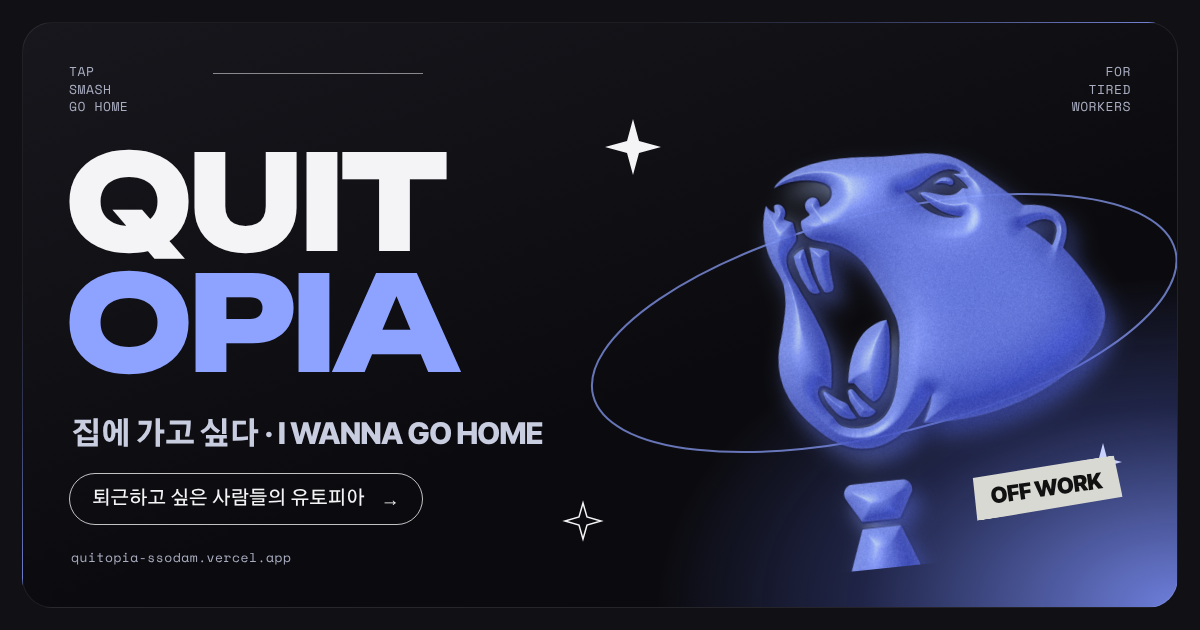
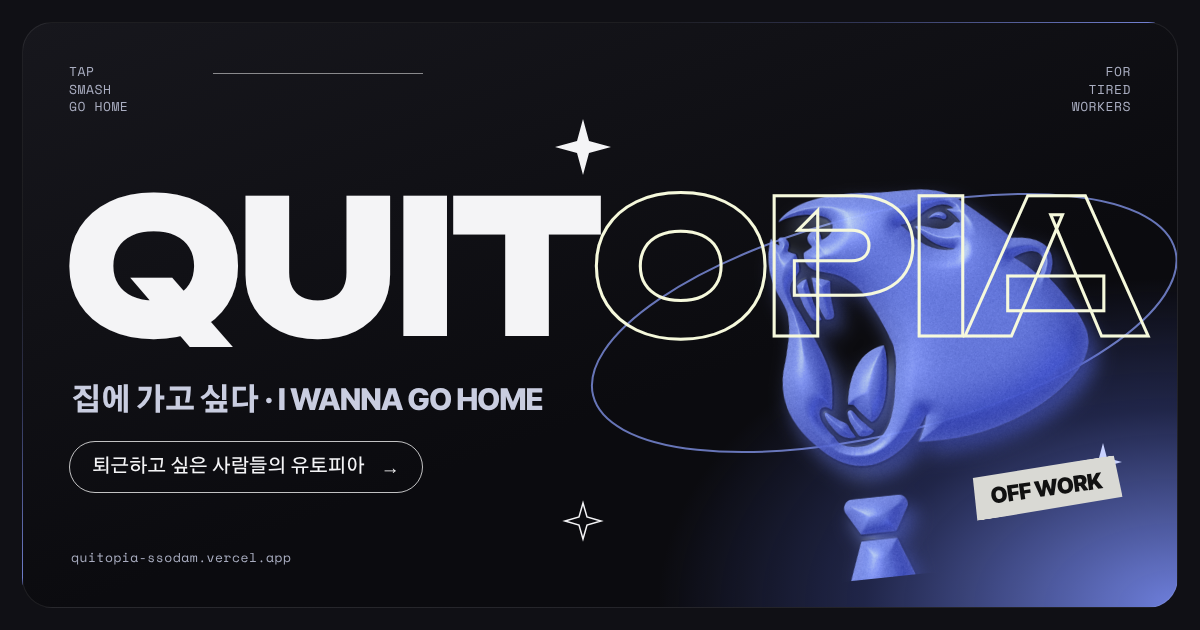
Set QUITOPIA on one large line in the link preview, with OPIA outlined
Claude-Session: https://claude.ai/code/session_01N51b2tuNVt9jrMTZPFmN4t

Changed region(s): [[0.0308, 0.2111, 0.9558, 0.9349], [0.4625, 0.2111, 0.555, 0.2714], [0.5242, 0.5127, 0.6167, 0.5429]]

diff --git a/quitopia/index.html b/quitopia/index.html
@@ -5,16 +5,16 @@
 <meta name="viewport" content="width=device-width, initial-scale=1, viewport-fit=cover">
 <meta name="description" content="퇴근하고 싶은 마음을 사물과 글자를 두드려 부수며 푸는 QUITOPIA">
 <title>QUITOPIA</title>
-<link rel="icon" href="/favicon.ico?v=4" sizes="any">
-<link rel="icon" type="image/png" sizes="32x32" href="/favicon-32.png?v=4">
-<link rel="apple-touch-icon" href="/apple-touch-icon.png?v=4">
+<link rel="icon" href="/favicon.ico?v=5" sizes="any">
+<link rel="icon" type="image/png" sizes="32x32" href="/favicon-32.png?v=5">
+<link rel="apple-touch-icon" href="/apple-touch-icon.png?v=5">
 <meta name="theme-color" content="#09090C">
 <meta property="og:type" content="website">
 <meta property="og:site_name" content="QUITOPIA">
 <meta property="og:title" content="QUITOPIA · 집에 가고 싶다">
 <meta property="og:description" content="퇴근하고 싶은 사람들의 유토피아. 사물과 글자를 두드리고 부수며 푸는 퇴근 욕구.">
 <meta property="og:url" content="https://quitopia-ssodam.vercel.app/">
-<meta property="og:image" content="https://quitopia-ssodam.vercel.app/og.png?v=4">
+<meta property="og:image" content="https://quitopia-ssodam.vercel.app/og.png?v=5">
 <meta property="og:image:width" content="1200">
 <meta property="og:image:height" content="630">
 <meta property="og:image:alt" content="소리 지르는 넥타이 마멋과 QUITOPIA 로고">
@@ -22,7 +22,7 @@
 <meta name="twitter:card" content="summary_large_image">
 <meta name="twitter:title" content="QUITOPIA · 집에 가고 싶다">
 <meta name="twitter:description" content="사물과 글자를 두드리고 부수며 푸는 퇴근 욕구.">
-<meta name="twitter:image" content="https://quitopia-ssodam.vercel.app/og.png?v=4">
+<meta name="twitter:image" content="https://quitopia-ssodam.vercel.app/og.png?v=5">
 <meta name="claude:viewport-fit-sides" content="cover">
 <link rel="preconnect" href="https://fonts.googleapis.com">
 <link rel="preconnect" href="https://fonts.gstatic.com" crossorigin>
